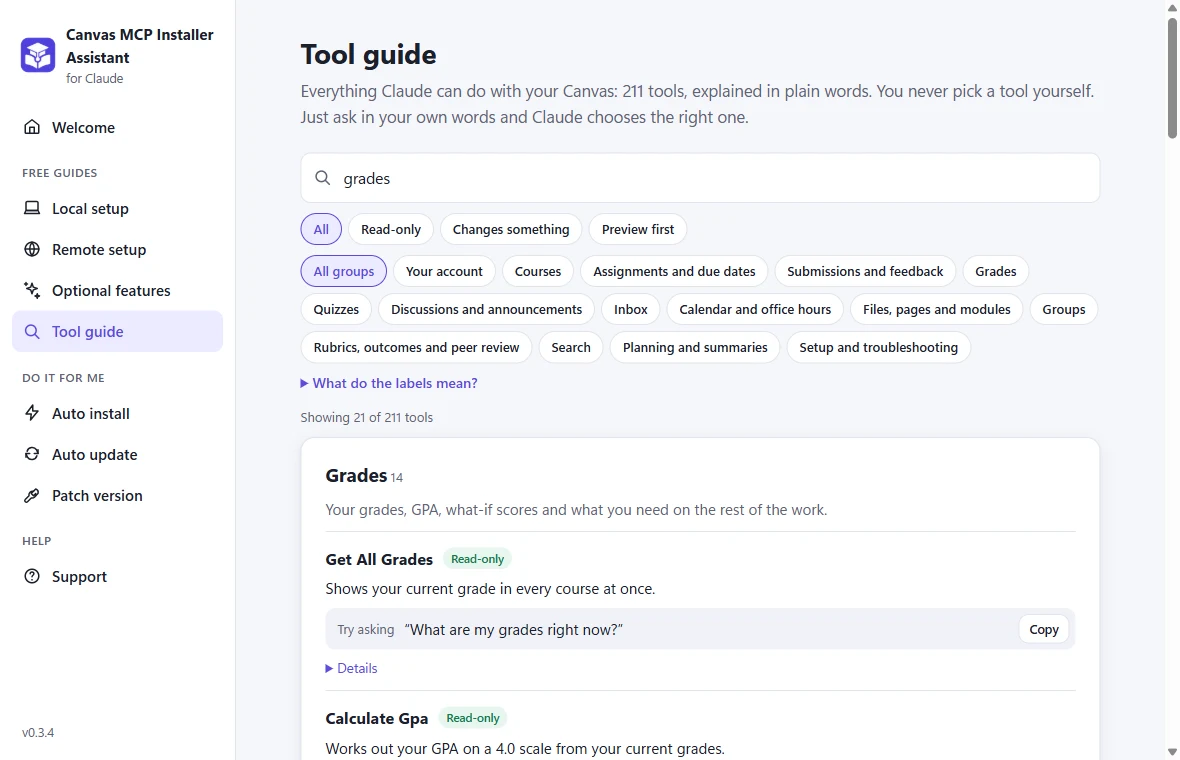
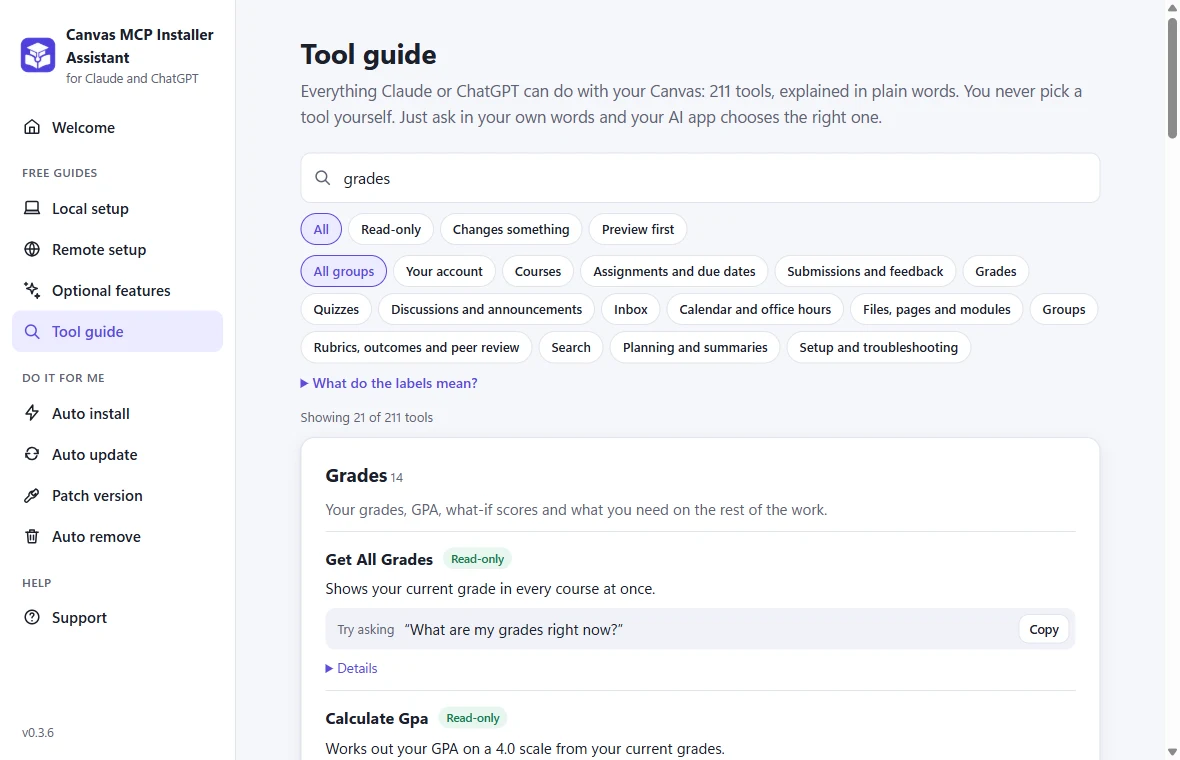
Advertise the ChatGPT desktop app on the website and README

diff --git a/docs/app/index.html b/docs/app/index.html
@@ -4,12 +4,12 @@
 <meta charset="utf-8">
 <meta name="viewport" content="width=device-width, initial-scale=1">
 <title>Canvas MCP Installer Assistant</title>
-<meta name="description" content="A free Windows app that connects Claude to your Canvas account, with pictures and a check after every step. Then ask Claude what's due, what you need on the final, or which missing assignment hurts your grade most.">
+<meta name="description" content="A free Windows app that connects Claude or the ChatGPT desktop app to your Canvas account, with pictures and a check after every step. Then ask what's due, what you need on the final, or which missing assignment hurts your grade most.">
 <link rel="icon" type="image/png" href="../favicon.png">
 <link rel="apple-touch-icon" href="../icon.png">
 <meta property="og:type" content="website">
-<meta property="og:title" content="Canvas MCP Installer Assistant: Canvas in Claude, no terminal needed">
-<meta property="og:description" content="A free Windows app that connects Claude to your Canvas account step by step. Ask what's due, what you need on the final, and more.">
+<meta property="og:title" content="Canvas MCP Installer Assistant: Canvas in Claude and ChatGPT, no terminal needed">
+<meta property="og:description" content="A free Windows app that connects Claude or the ChatGPT desktop app to your Canvas account step by step. Ask what's due, what you need on the final, and more.">
 <meta property="og:url" content="https://fireiscoolsolo.github.io/canvas-lms-mcp-local/app/">
 <meta property="og:image" content="https://fireiscoolsolo.github.io/canvas-lms-mcp-local/app/img/og.png">
 <meta name="twitter:card" content="summary_large_image">
@@ -109,27 +109,27 @@ footer{border-top:1px solid var(--border);padding:36px 0;color:var(--muted);font
 </div></nav>
 
 <header class="hero"><div class="wrap">
-  <span class="pill">Free Windows app · <b>Claude</b> + Canvas</span>
-  <h1>Canvas in Claude,<br><span class="grad">no terminal needed.</span></h1>
-  <p class="lede">The Canvas MCP Installer Assistant connects Claude to your Canvas account with pictures and a check after every step. Then just ask Claude what's due this week, what you need on the final, or which missing assignment hurts your grade most.</p>
+  <span class="pill">Free Windows app · <b>Claude</b> + <b>ChatGPT</b> + Canvas</span>
+  <h1>Canvas in Claude and ChatGPT,<br><span class="grad">no terminal needed.</span></h1>
+  <p class="lede">The Canvas MCP Installer Assistant connects Claude or the ChatGPT desktop app to your Canvas account with pictures and a check after every step. Then just ask what's due this week, what you need on the final, or which missing assignment hurts your grade most.</p>
   <div class="cta">
     <a class="btn primary" data-download href="https://github.com/Fireiscoolsolo/canvas-lms-mcp-local/releases/latest"><svg class="ico" viewBox="0 0 24 24" fill="none" stroke="currentColor" stroke-width="2" stroke-linecap="round" stroke-linejoin="round" aria-hidden="true"><path d="M12 3v12"/><path d="m7 10 5 5 5-5"/><path d="M4 17v3a1 1 0 0 0 1 1h14a1 1 0 0 0 1-1v-3"/></svg>Download for Windows<span class="v"></span></a>
     <a class="btn" href="#features">See how it works</a>
   </div>
   <p class="note">Windows 10 and 11. Free guides, with an optional $5 one-click setup. It isn't code-signed yet, so if Windows says "Windows protected your PC", click <b>More info</b>, then <b>Run anyway</b>.</p>
-  <img class="shot" src="img/welcome.webp" width="1180" height="760" alt="The app's Welcome page: choose Local or Remote, with things you can ask Claude once it works">
+  <img class="shot" src="img/welcome.webp" width="1180" height="760" alt="The app's Welcome page: choose Local or Remote for Claude or ChatGPT, with things you can ask once it works">
 </div></header>
 
 <section id="features"><div class="wrap">
   <div class="eyebrow">How it works</div>
-  <h2>Everything you need to get Claude talking to Canvas</h2>
-  <p class="sub">Pick Local (Claude Desktop on this computer, about 5 minutes) or Remote (Claude on the web, desktop and your phone, about 20 minutes).</p>
+  <h2>Everything you need to get your AI talking to Canvas</h2>
+  <p class="sub">Pick Local (Claude Desktop or the ChatGPT desktop app on this computer, about 5 minutes) or Remote (Claude on the web, desktop and your phone, or the ChatGPT desktop app, about 20 minutes).</p>
 
   <div class="feature">
     <div class="text">
       <h3>A picture and a Check button for every step</h3>
       <p>The free guides walk you through it one step at a time, with real screenshots and commands to copy. Press <b>Check</b> and the app tells you whether that step worked before you move on.</p>
-      <ul><li>Creating your Canvas access token</li><li>Adding Canvas to Claude Desktop</li><li>Remote: ngrok, start at logon and connecting your phone</li></ul>
+      <ul><li>Creating your Canvas access token</li><li>Adding Canvas to Claude Desktop or the ChatGPT desktop app</li><li>Remote: ngrok, start at logon and connecting your phone</li></ul>
     </div>
     <img class="shot" src="img/guide.webp" width="1180" height="760" loading="lazy" alt="A guide step showing where to create a Canvas access token">
   </div>
@@ -137,7 +137,7 @@ footer{border-top:1px solid var(--border);padding:36px 0;color:var(--muted);font
   <div class="feature flip">
     <div class="text">
       <h3>Every tool, explained in plain English</h3>
-      <p>The Tool guide lists all 211 things Claude can do with your Canvas, with an example of what to ask for each. Search for grades, due dates, your inbox or quizzes, and copy a question straight into Claude.</p>
+      <p>The Tool guide lists all 211 things your AI can do with your Canvas, with an example of what to ask for each. Search for grades, due dates, your inbox or quizzes, and copy a question straight into Claude or ChatGPT.</p>
       <ul><li>Labels show what only reads and what changes something</li><li>Anything other people would see shows a preview first</li></ul>
     </div>
     <img class="shot" src="img/tool-guide.webp" width="1180" height="760" loading="lazy" alt="The Tool guide searching for grades">
@@ -146,10 +146,10 @@ footer{border-top:1px solid var(--border);padding:36px 0;color:var(--muted);font
   <div class="feature">
     <div class="text">
       <h3>Or let it do every step for you</h3>
-      <p>For a one-time $5, <b>Auto install</b> does the whole setup: paste your school's Canvas address and token, and the app installs what's missing, checks your token and adds Canvas to Claude Desktop.</p>
-      <ul><li><b>Auto update</b> keeps your setup current in one click</li><li><b>Patch version</b> fixes older hand-made setups</li><li>One key works on up to 5 of your computers</li></ul>
+      <p>For a one-time $5, <b>Auto install</b> does the whole setup: paste your school's Canvas address and token, and the app installs what's missing, checks your token and adds Canvas to Claude Desktop, the ChatGPT desktop app or both. It checks what's already set up first, so it never undoes another app's setup.</p>
+      <ul><li><b>Auto update</b> keeps your setup current in one click</li><li><b>Patch version</b> fixes older hand-made setups</li><li><b>Auto remove</b> takes Canvas off your computer again, free</li><li>One key works on up to 5 of your computers</li></ul>
     </div>
-    <img class="shot" src="img/auto-install.webp" width="1180" height="760" loading="lazy" alt="Auto install: fill in your Canvas address and token, then Set it up">
+    <img class="shot" src="img/auto-install.webp" width="1180" height="760" loading="lazy" alt="Auto install: what's already on this computer, then tick Claude Desktop, the ChatGPT desktop app or both">
   </div>
 
   <div class="feature flip">
@@ -164,7 +164,7 @@ footer{border-top:1px solid var(--border);padding:36px 0;color:var(--muted);font
 <section id="pricing"><div class="wrap">
   <div class="eyebrow">Free vs $5</div>
   <h2>The guides are free. The one-click setup is $5.</h2>
-  <p class="sub">The $5 supports the project. Everything Claude can do with Canvas is the same either way.</p>
+  <p class="sub">The $5 supports the project. Everything your AI can do with Canvas is the same either way.</p>
   <div class="compare">
     <div class="plan here">
       <span class="badge">Free</span>
@@ -175,6 +175,7 @@ footer{border-top:1px solid var(--border);padding:36px 0;color:var(--muted);font
         <li>Screenshots and commands to copy</li>
         <li>A Check button that tests each step</li>
         <li>The Tool guide and fixes for common problems</li>
+        <li>Auto remove, to take Canvas off your computer again</li>
       </ul>
       <a class="btn primary" data-download href="https://github.com/Fireiscoolsolo/canvas-lms-mcp-local/releases/latest">Download for Windows<span class="v"></span></a>
     </div>
@@ -185,8 +186,8 @@ footer{border-top:1px solid var(--border);padding:36px 0;color:var(--muted);font
       <ul>
         <li>Installs Node.js (and ngrok for Remote) if needed</li>
         <li>Checks your Canvas token</li>
-        <li>Adds Canvas to Claude Desktop, with a backup</li>
-        <li>Remote: settings, test run and start at logon</li>
+        <li>Adds Canvas to Claude Desktop, the ChatGPT desktop app or both, with a backup</li>
+        <li>Remote: settings, test run, start at logon and one click to add it to the ChatGPT desktop app</li>
         <li>Auto update and Patch version</li>
         <li>One license key works on up to 5 of your computers</li>
       </ul>
@@ -202,12 +203,12 @@ footer{border-top:1px solid var(--border);padding:36px 0;color:var(--muted);font
   <div class="compare">
     <div class="plan repo">
       <h3><svg class="ico" viewBox="0 0 24 24" fill="none" stroke="currentColor" stroke-width="2" stroke-linecap="round" stroke-linejoin="round" aria-hidden="true"><rect x="2" y="4" width="20" height="13" rx="2"/><path d="M8 21h8M12 17v4"/></svg>Local Edition</h3>
-      <p>Runs on your computer for Claude Desktop and other desktop AI apps. Nothing is exposed to the internet.</p>
+      <p>Runs on your computer for Claude Desktop, the ChatGPT desktop app and other desktop AI apps. Nothing is exposed to the internet.</p>
       <div class="row"><a class="btn" href="https://github.com/Fireiscoolsolo/canvas-lms-mcp-local">★ View on GitHub</a><a class="btn" href="https://fireiscoolsolo.github.io/canvas-lms-mcp-local/">Docs</a></div>
     </div>
     <div class="plan repo">
       <h3><svg class="ico" viewBox="0 0 24 24" fill="none" stroke="currentColor" stroke-width="2" stroke-linecap="round" stroke-linejoin="round" aria-hidden="true"><circle cx="12" cy="12" r="10"/><path d="M2 12h20M12 2a15 15 0 0 1 0 20M12 2a15 15 0 0 0 0 20"/></svg>Remote Edition</h3>
-      <p>Your own Canvas server for Claude on the web, desktop and phone, behind a password, with backup computers.</p>
+      <p>Your own Canvas server for Claude on the web, desktop and phone, and the ChatGPT desktop app, behind a password, with backup computers.</p>
       <div class="row"><a class="btn" href="https://github.com/Fireiscoolsolo/canvas-lms-mcp-server">★ View on GitHub</a><a class="btn" href="https://fireiscoolsolo.github.io/canvas-lms-mcp-server/">Docs</a></div>
     </div>
   </div>
@@ -219,13 +220,14 @@ footer{border-top:1px solid var(--border);padding:36px 0;color:var(--muted);font
   <details><summary>Is my Canvas token safe?</summary><p>The app only sends your token to your own school's Canvas, to check that it works, and saves it on your computer in the settings the server uses. There's no tracking or analytics. The servers it installs are open source on GitHub.</p></details>
   <details><summary>Windows says "Windows protected your PC". Is that normal?</summary><p>Yes. The app isn't code-signed yet, so Windows doesn't recognize it. Click <b>More info</b>, then <b>Run anyway</b>.</p></details>
   <details><summary>Does it work on a Mac?</summary><p>Not yet. On a Mac, follow the README for the <a href="https://github.com/Fireiscoolsolo/canvas-lms-mcp-local">Local</a> or <a href="https://github.com/Fireiscoolsolo/canvas-lms-mcp-server">Remote</a> edition.</p></details>
-  <details><summary>Which AI apps does it set up?</summary><p>Claude Desktop for the Local Edition, and Claude on the web, desktop and phone for the Remote Edition. Support for more AI apps is coming.</p></details>
-  <details><summary>Is this made by Instructure or Anthropic?</summary><p>No. It's an independent project that works with Canvas and Claude.</p></details>
+  <details><summary>Which AI apps does it set up?</summary><p>Claude Desktop and the ChatGPT desktop app for the Local Edition. For the Remote Edition, Claude on the web, desktop and phone, and the ChatGPT desktop app.</p></details>
+  <details><summary>How do I remove it again?</summary><p>Open <b>Auto remove</b> in the app. It's free. It takes Canvas out of Claude Desktop or the ChatGPT app, or stops and uninstalls the Remote server, and backs up each settings file first.</p></details>
+  <details><summary>Is this made by Instructure, Anthropic or OpenAI?</summary><p>No. It's an independent project that works with Canvas, Claude and ChatGPT.</p></details>
   <details><summary>I'm stuck. Where do I get help?</summary><p>The app's Support tab has fixes for common problems and a button that copies your setup info with secrets hidden. You can also email <a href="mailto:fireiscoolsolo@gmail.com">fireiscoolsolo@gmail.com</a> or open an issue on <a href="https://github.com/Fireiscoolsolo/canvas-lms-mcp-local/issues">GitHub</a>.</p></details>
 </div></section>
 
 <footer><div class="wrap">
-  Not affiliated with Instructure or Anthropic · <a href="mailto:fireiscoolsolo@gmail.com">fireiscoolsolo@gmail.com</a> · <a href="https://github.com/Fireiscoolsolo/canvas-lms-mcp-local">Local Edition on GitHub</a> · <a href="https://github.com/Fireiscoolsolo/canvas-lms-mcp-server">Remote Edition on GitHub</a>
+  Not affiliated with Instructure, Anthropic or OpenAI · <a href="mailto:fireiscoolsolo@gmail.com">fireiscoolsolo@gmail.com</a> · <a href="https://github.com/Fireiscoolsolo/canvas-lms-mcp-local">Local Edition on GitHub</a> · <a href="https://github.com/Fireiscoolsolo/canvas-lms-mcp-server">Remote Edition on GitHub</a>
 </div></footer>
 
 <script>

diff --git a/docs/index.html b/docs/index.html
@@ -180,7 +180,7 @@ h3 .ico,.rule b .ico{margin-right:7px;color:var(--accent)}
       <h3><svg class="ico" viewBox="0 0 24 24" fill="none" stroke="currentColor" stroke-width="2" stroke-linecap="round" stroke-linejoin="round" aria-hidden="true"><rect x="4" y="4" width="16" height="12" rx="2"/><path d="M2 20h20l-2-4H4z"/></svg>Local</h3>
       <p>Best if you only need it on one computer.</p>
       <ul>
-        <li>Desktop and command-line MCP clients</li>
+        <li>Claude Desktop, the ChatGPT desktop app and other MCP clients</li>
         <li>Your AI app starts it automatically</li>
         <li>Nothing exposed to the internet</li>
         <li>Needs only Node.js and a Canvas token</li>
@@ -241,6 +241,7 @@ h3 .ico,.rule b .ico{margin-right:7px;color:var(--accent)}
       <h3>Add it to your AI app</h3>
       <div class="tabs" role="tablist">
         <button role="tab" aria-selected="true" data-tab="desktop">Desktop apps</button>
+        <button role="tab" aria-selected="false" data-tab="chatgpt">ChatGPT desktop app</button>
         <button role="tab" aria-selected="false" data-tab="code">Command line</button>
       </div>
       <div class="panel" id="tab-desktop">
@@ -259,6 +260,15 @@ h3 .ico,.rule b .ico{margin-right:7px;color:var(--accent)}
 }</pre>
         <p class="tip">Then <b>fully quit</b> the app and reopen it. On Windows, use the tray icon → Quit; on macOS, press ⌘Q.</p>
       </div>
+      <div class="panel" id="tab-chatgpt" hidden>
+        <p style="margin-top:10px">Open <b>Settings → Plugins</b>, go to the <b>MCPs</b> tab and click <b>Add → Add MCP server</b>. Choose <b>STDIO</b> and fill in the form. On Windows, each argument goes in its own box:</p>
+<pre>Name                   canvas
+Command to launch      cmd
+Arguments              /c   npx   -y   canvas-lms-mcp-local
+Environment variables  CANVAS_API_TOKEN = your_token_here
+                       CANVAS_BASE_URL  = https://yourschool.instructure.com</pre>
+        <p class="tip">Click <b>Save</b>, then start a <b>new chat</b>. Chats that were already open don't pick up new tools.</p>
+      </div>
       <div class="panel" id="tab-code" hidden>
 <pre><button class="copy">Copy</button>npx -y canvas-lms-mcp-local</pre>
         <p class="tip">Register this command as a <b>stdio</b> MCP server named <code>canvas</code>, with <code>CANVAS_API_TOKEN</code> and <code>CANVAS_BASE_URL</code> set in its environment.</p>
@@ -275,7 +285,7 @@ h3 .ico,.rule b .ico{margin-right:7px;color:var(--accent)}
 <section id="app"><div class="wrap">
   <div class="eyebrow">Windows app</div>
   <h2>Canvas MCP Installer Assistant for Windows</h2>
-  <p class="sub">A desktop app that sets up the Local or Remote Edition with Claude Desktop, with pictures and a check after every step. <a href="app/">See screenshots and FAQ →</a></p>
+  <p class="sub">A desktop app that sets up the Local or Remote Edition in Claude or the ChatGPT desktop app, with pictures and a check after every step. <a href="app/">See screenshots and FAQ →</a></p>
   <div class="compare">
     <div class="plan here">
       <span class="badge">Free</span>
@@ -286,6 +296,7 @@ h3 .ico,.rule b .ico{margin-right:7px;color:var(--accent)}
         <li>Screenshots and commands to copy</li>
         <li>A Check button that tests each step</li>
         <li>Fixes for common problems</li>
+        <li>Auto remove: takes Canvas off your computer again</li>
       </ul>
       <a class="btn primary" href="download/"><svg class="ico" viewBox="0 0 24 24" fill="none" stroke="currentColor" stroke-width="2" stroke-linecap="round" stroke-linejoin="round" aria-hidden="true"><path d="M12 3v12"/><path d="m7 10 5 5 5-5"/><path d="M4 17v3a1 1 0 0 0 1 1h14a1 1 0 0 0 1-1v-3"/></svg>Download for Windows</a>
     </div>
@@ -296,7 +307,8 @@ h3 .ico,.rule b .ico{margin-right:7px;color:var(--accent)}
       <ul>
         <li>Installs Node.js (and ngrok for Remote) if needed</li>
         <li>Checks your Canvas token</li>
-        <li>Adds Canvas to Claude Desktop, with a backup</li>
+        <li>Adds Canvas to Claude Desktop, the ChatGPT desktop app or both, with a backup</li>
+        <li>Checks what's already set up, so it never undoes another app's setup</li>
         <li>Remote: settings, test run and start at logon</li>
         <li>Auto update: one click keeps your setup current, reusing your saved token</li>
         <li>Patch version: switches older, hand-made setups to the updatable version</li>

diff --git a/README.md b/README.md
@@ -33,7 +33,7 @@
 </div>
 
 > [!TIP]
-> **On Windows? Skip the terminal.** The free **[Canvas MCP Installer Assistant](https://fireiscoolsolo.github.io/canvas-lms-mcp-local/app/)** sets this up with pictures and a check after every step, or does every step for you. **[Download for Windows](https://fireiscoolsolo.github.io/canvas-lms-mcp-local/download/)**
+> **On Windows? Skip the terminal.** The free **[Canvas MCP Installer Assistant](https://fireiscoolsolo.github.io/canvas-lms-mcp-local/app/)** sets this up in Claude Desktop or the ChatGPT desktop app with pictures and a check after every step, or does every step for you. **[Download for Windows](https://fireiscoolsolo.github.io/canvas-lms-mcp-local/download/)**
 
 <p align="center"><img src="https://fireiscoolsolo.github.io/canvas-lms-mcp-local/demo.svg" width="760" alt="Example chat: asking what score is needed on the final and what's due this week (sample data)"></p>
 
@@ -43,7 +43,7 @@
 
 | | **Local** (this repo) | [**Remote**](https://github.com/Fireiscoolsolo/canvas-lms-mcp-server) |
 |---|---|---|
-| Works with | Desktop and command-line MCP clients **on this computer** | Any MCP client that supports remote servers, **on any device** |
+| Works with | Claude Desktop, the ChatGPT desktop app and other MCP clients **on this computer** | Any MCP client that supports remote servers, **on any device** |
 | When it runs | Only while your AI app is open, because the app starts it | Always on, in the background |
 | You need | Node.js and a Canvas token | Node.js, a Canvas token, an ngrok account and a password |
 | Internet exposure | **None**: no port is opened | Public HTTPS address, password-protected |
@@ -105,6 +105,22 @@ In Canvas, go to **Account → Settings → Approved Integrations → + New Acce
    ```
 
 3. **Fully quit the app**: on Windows, right-click the tray icon and choose **Quit**; on macOS, press ⌘Q. Then reopen it. Closing the window isn't enough.
+</details>
+
+<details>
+<summary><b>ChatGPT desktop app</b></summary>
+
+1. Open **Settings → Plugins**, go to the **MCPs** tab, then click **Add → Add MCP server**.
+2. Choose **STDIO** and fill in the form. On Windows, each argument goes in its own box:
+
+   | Field | Value |
+   |---|---|
+   | Name | `canvas` |
+   | Command to launch | `cmd` |
+   | Arguments | `/c`, `npx`, `-y`, `canvas-lms-mcp-local` |
+   | Environment variables | `CANVAS_API_TOKEN` = your token<br>`CANVAS_BASE_URL` = `https://yourschool.instructure.com` |
+
+3. Click **Save**, then start a **new chat**. Chats that were already open don't pick up new tools.
 </details>
 
 <details>
